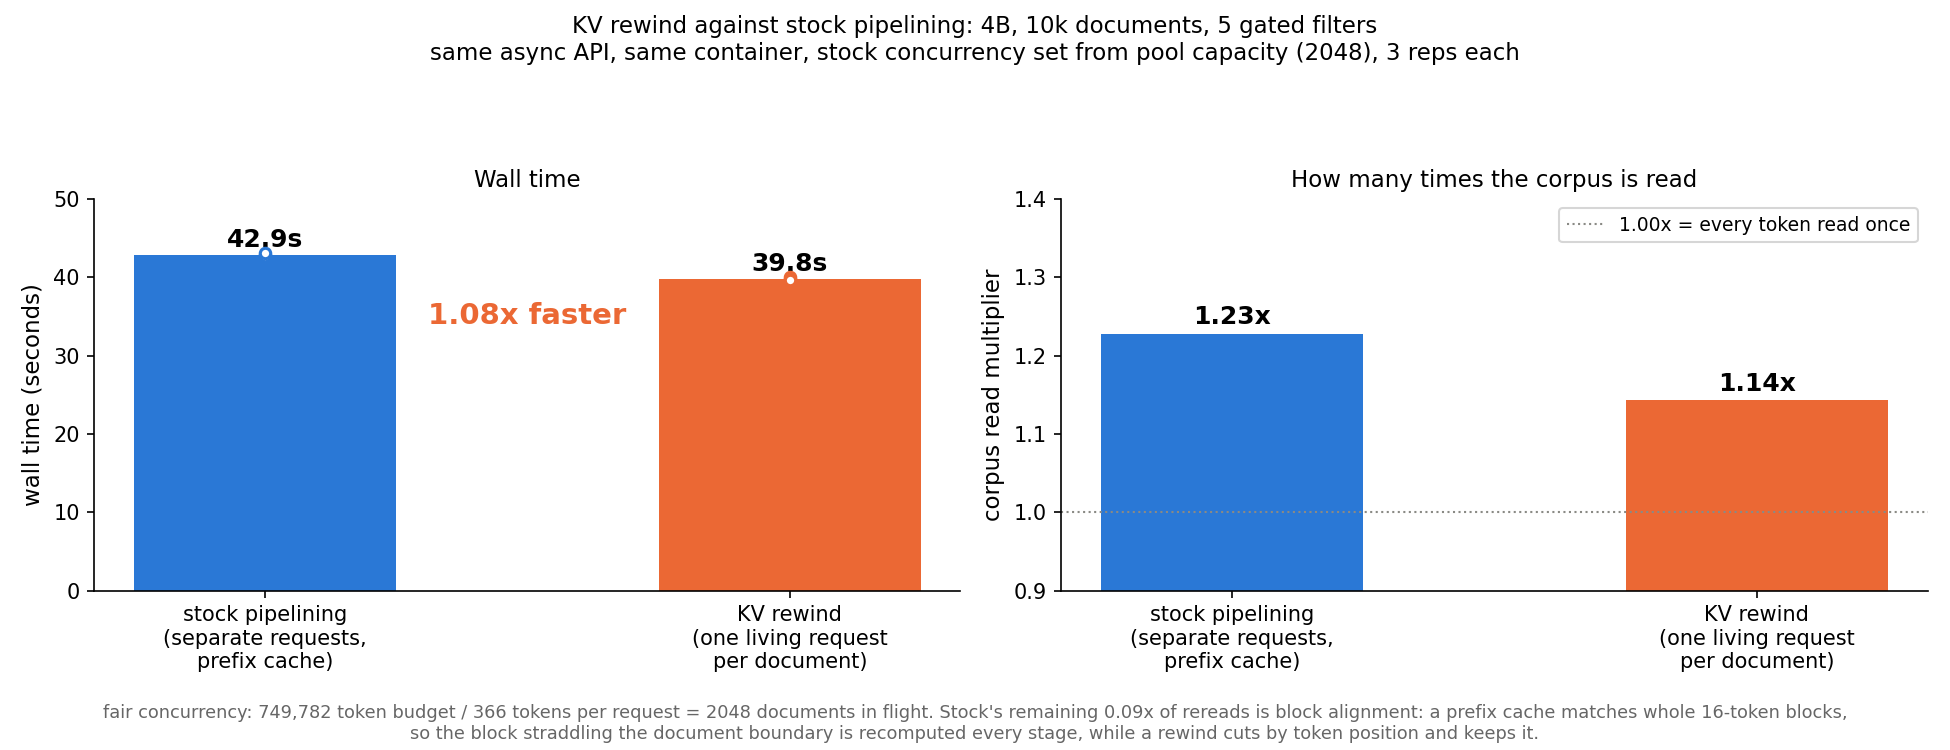
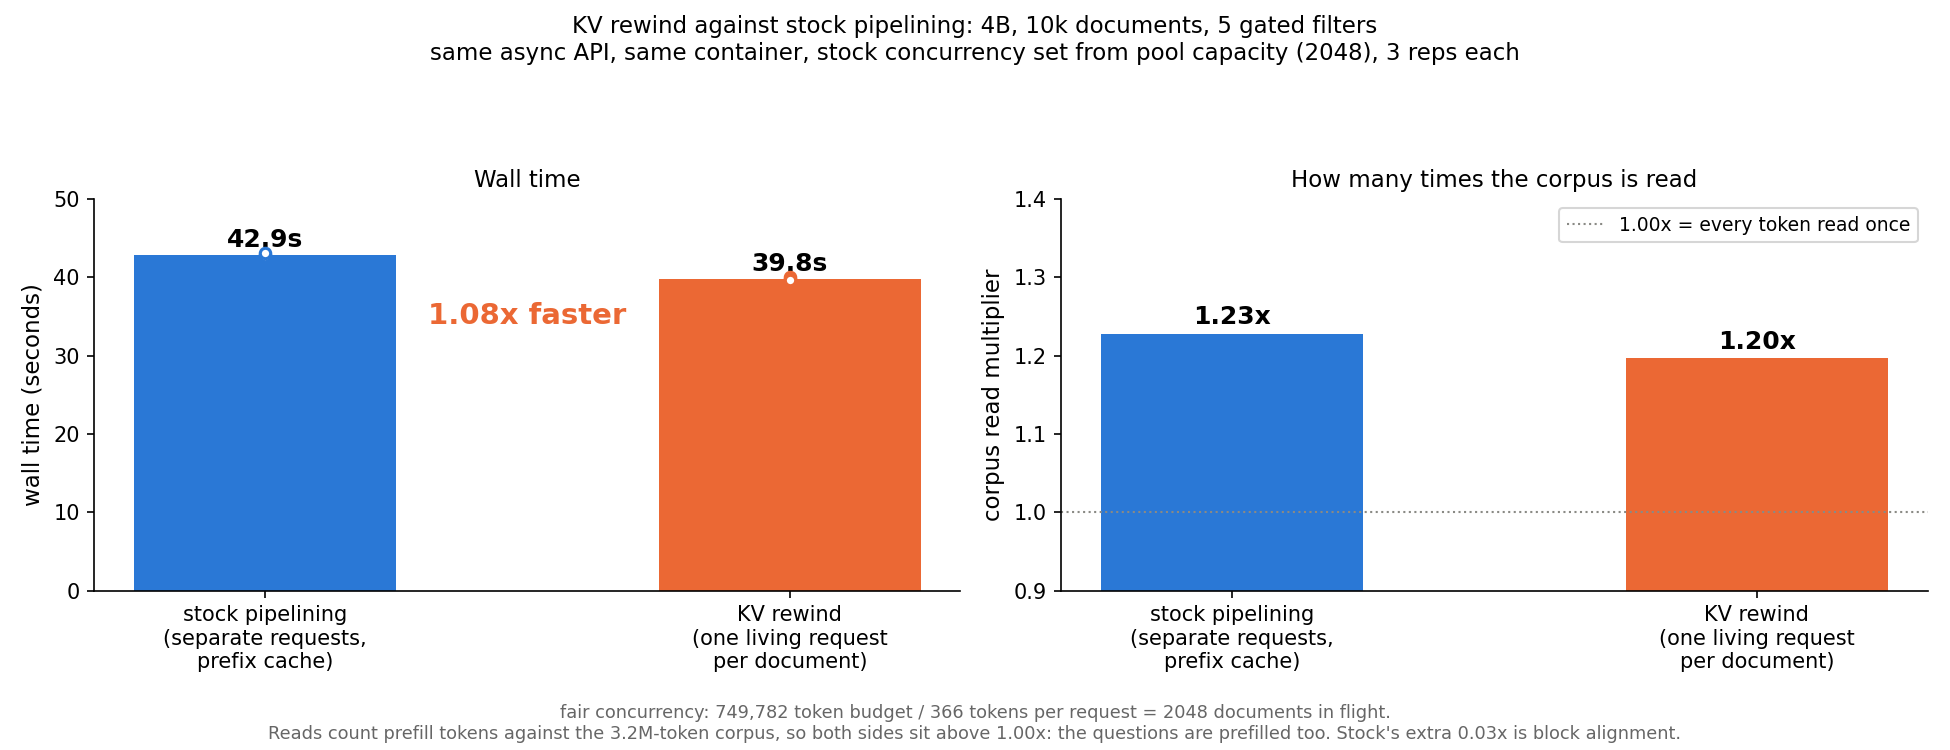
Fix the read-multiplier measurement; it was blind to chain mode.
The client-side counter is (prompt_tokens - cached_tokens) / corpus,
summing len(final.prompt_token_ids) per request. That is correct when
every request is submitted once, which is the stock arm. It is wrong
for chain mode: a rewind truncates and re-extends prompt_token_ids, so
the final snapshot shows only [document + last question] and every
intermediate question prefill disappears from the count.

How wrong: it reported 1.143x for pipelined_filter, hybrid_filter, and
ask_everything alike - three operators whose wall times are 39.8, 45.6
and 52.4 seconds. Slicing the scheduler's step trace by each cell's
window gives 1.197 / 1.240 / 1.306, which tracks the walls.

So KV rewind prefills 1.20x the corpus, not 1.14x, and the honest
account of its 1.08x speedup is 2.6% fewer tokens plus 2.3x fewer
requests to schedule and sample - not work elimination alone.

modal_filters.py now enables the step trace on the planned boot and
takes the rewind arm's number from it, keeping the client figure
alongside as client_reads. The denominator is documents only while the
numerator includes questions, so both arms sit above 1.00x by
construction; the README says so now instead of claiming 1.00x is the
floor.

Changed region(s): [[0.0923, 0.92, 0.9231, 1.0], [0.8308, 0.4293, 0.9846, 0.552]]

diff --git a/experiments/modal_filters.py b/experiments/modal_filters.py
@@ -129,6 +129,13 @@ async def filter_cells(n_docs: int = 10000, reps: int = 3,
 
     for arm in [a.strip() for a in arms.split(",") if a.strip()]:
         planned = arm == "rewind"
+        # the step trace is the only honest source of prefill work for
+        # chain mode; it exists only on the planned boot
+        trace_path = f"/tmp/quail_trace_{arm}.jsonl" if planned else None
+        if trace_path:
+            os.environ["QUAIL_STEPTRACE"] = trace_path
+        else:
+            os.environ.pop("QUAIL_STEPTRACE", None)
         extra = (dict(scheduler_cls="quail.engineext.scheduler."
                                     "QuailScheduler")
                  if planned else {})
@@ -149,18 +156,54 @@ async def filter_cells(n_docs: int = 10000, reps: int = 3,
                 if hasattr(res, "__await__"):
                     await res
                 tag = f"{arm}-{rep}"
+                t0m = _time.monotonic()
                 if planned:
                     r = await run_filter_chain_engine(
                         engine, sp, body_ids, q_ids, budget, yes_ids,
                         tag=tag)
                 else:
                     r = await run_stock(engine, tag)
-                reads = round((r["prompt_tokens"] - r["cached_tokens"])
-                              / max(1, corpus), 3)
+                t1m = _time.monotonic()
+                # Two ways to count the prefill work, and only one of
+                # them is right for each arm.
+                #
+                # Client side: (prompt tokens - cache hits) / corpus.
+                # Correct for the stock arm, where every request is
+                # submitted once and its final prompt IS what it asked
+                # for. WRONG for chain mode: a rewind truncates and
+                # re-extends prompt_token_ids, so the final snapshot
+                # shows only [document + last question] and the
+                # intermediate question prefills vanish. It reported
+                # an identical 1.143 for three operators that do
+                # visibly different amounts of work.
+                #
+                # Scheduler side: sum the step trace's prefill_tokens
+                # over the cell's window. The scheduler sees every
+                # prefill, so this is the honest number - but it only
+                # exists for the planned boot, which is the one
+                # running our scheduler.
+                client_reads = round(
+                    (r["prompt_tokens"] - r["cached_tokens"])
+                    / max(1, corpus), 3)
+                reads, source = client_reads, "client"
+                if planned and trace_path and os.path.exists(trace_path):
+                    pf = 0
+                    with open(trace_path) as tf:
+                        for line in tf:
+                            if not line.strip():
+                                continue
+                            rec = json.loads(line)
+                            if t0m <= rec["t"] <= t1m:
+                                pf += rec["prefill_tokens"]
+                    if pf:
+                        reads = round(pf / max(1, corpus), 3)
+                        source = "step-trace"
                 wrong = sum(1 for (i, j), v in r["answers"].items()
                             if v != int(flags[i][j - 1]))
                 cell = dict(arm=arm, rep=rep, wall=round(r["wall"], 3),
                             requests=r["requests"], reads=reads,
+                            reads_source=source,
+                            client_reads=client_reads,
                             wrong=wrong, answered=len(r["answers"]),
                             survivors=len(r["survivors"]))
                 report["cells"].append(cell)

diff --git a/plots/make_figures.py b/plots/make_figures.py
@@ -48,8 +48,13 @@ MEASURED = dict(
     # 3 reps each (modal_filters.py) ---
     stock_walls=[42.831, 42.773, 43.161],
     rewind_walls=[39.994, 39.828, 39.694],
+    # stock's reads come from the client counter, which is correct for
+    # separate requests. rewind's come from the scheduler step trace:
+    # the client counter cannot see a chain's intermediate prefills
+    # (a rewind rewrites prompt_token_ids) and reported 1.143 for
+    # three operators doing visibly different work.
     stock_reads=1.228,
-    rewind_reads=1.143,
+    rewind_reads=1.197,
     stock_semaphore=2048,
     budget_tokens=749_782,
     mean_request_tokens=366,
@@ -510,11 +515,10 @@ def rewind_vs_stock_4b():
     fig.text(0.5, 0.015,
              f"fair concurrency: {m['budget_tokens']:,} token budget / "
              f"{m['mean_request_tokens']} tokens per request = "
-             f"{m['stock_semaphore']} documents in flight. "
-             "Stock's remaining 0.09x of rereads is block alignment: a "
-             "prefix cache matches whole 16-token blocks,\nso the block "
-             "straddling the document boundary is recomputed every "
-             "stage, while a rewind cuts by token position and keeps it.",
+             f"{m['stock_semaphore']} documents in flight.\n"
+             "Reads count prefill tokens against the 3.2M-token corpus, "
+             "so both sides sit above 1.00x: the questions are prefilled "
+             "too. Stock's extra 0.03x is block alignment.",
              ha="center", fontsize=8.5, color="#666666")
     for ax in (ax1, ax2):
         for s in ("top", "right"):

diff --git a/README.md b/README.md
@@ -49,21 +49,30 @@ of a request's KV or to keep a request alive across answers.
 
 **Filters** — 10k docs, 5 filters, same container, 3 reps each:
 
-| | wall | corpus reads | requests |
+| | wall | prefill tokens | requests |
 |---|---|---|---|
-| stock vLLM | 42.9 s | 1.23x | 23,315 |
-| KV rewind | 39.8 s | 1.14x | 10,000 |
+| stock vLLM | 42.9 s | 1.23x corpus | 23,315 |
+| KV rewind | 39.8 s | 1.20x corpus | 10,000 |
 
-- **1.08x faster.** Reads ratio is 1.07x — the win is entirely less work
-- *Corpus reads* = (prompt tokens processed − cache hits) / 3,203,917.
-  1.00x = every document read once
+- **1.08x faster**, from two things: 2.6% fewer tokens prefilled, and
+  2.3x fewer requests to schedule, sample, and detokenize
+- *Prefill tokens* = tokens the engine actually computed, over the
+  3,203,917-token corpus. Both sides are above 1.00x because the
+  questions get prefilled too, not just the documents
 - Both sides get the same memory budget. vLLM's default 4,096
-  concurrent requests needs 1.58x the pool, thrashes, and reads 2.40x
-  in 80.1 s — not a fair baseline
-- The 23% of repeated reading left: the engine matches cache in
+  concurrent requests needs 1.58x the pool, thrashes, and prefills
+  2.40x the corpus in 80.1 s — not a fair baseline
+- Stock's extra 0.03x is block alignment: the engine matches cache in
   16-token blocks, so the block spanning the document/question
   boundary never matches and is recomputed every filter. A rewind cuts
   at the exact token
+- **Measurement note.** The client-side counter
+  (`prompt_tokens - cached_tokens`) is right for stock but wrong for
+  chain mode: a rewind rewrites `prompt_token_ids`, so the final
+  snapshot shows only `[document + last question]` and the
+  intermediate prefills vanish. It reported an identical 1.143x for
+  three operators that differ by 30% in wall time. Chain-mode numbers
+  here come from the scheduler's step trace, which sees every prefill
 
 **Cross-query reuse** — 1k docs (315k tokens), second query over the
 same documents:
